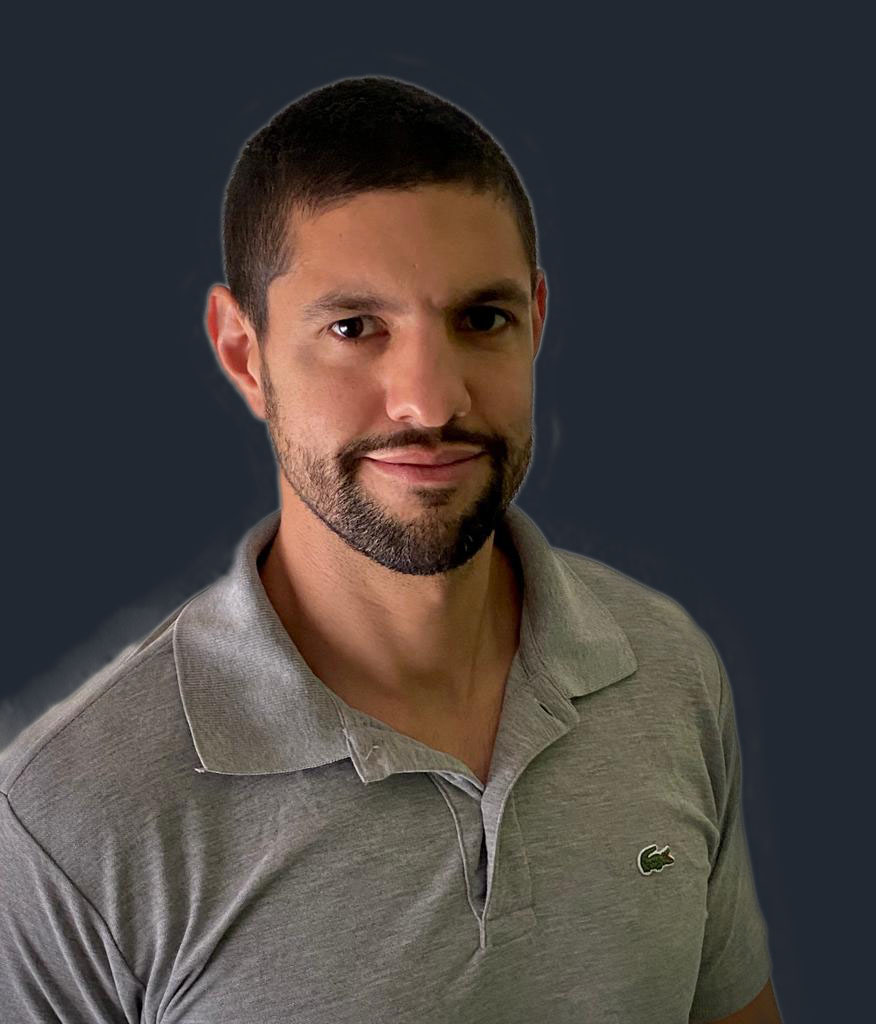
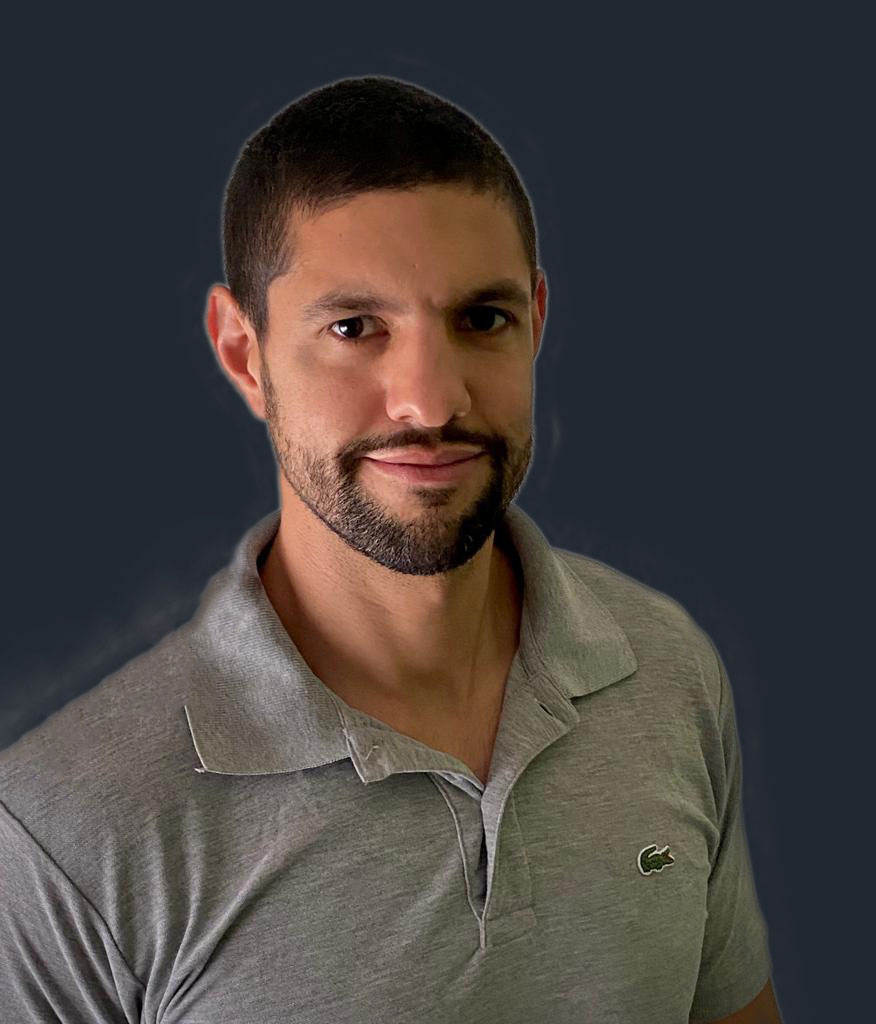
pruebas

Changed region(s): [[0.0, 0.5312, 0.3082, 0.8125]]

diff --git a/src/App.jsx b/src/App.jsx
@@ -81,7 +81,7 @@ function App() {
               </div>
             </div>
             <div className="col-12 col-md-6 d-flex justify-content-end order-first order-md-last">
-              <img className="imgPerfil" src="/img/perfil7.jpg" alt="" />
+              <img className="imgPerfil" src="/img/perfil9.jpg" alt="" />
             </div>
           </div>
         </section>

diff --git a/src/index.css b/src/index.css
@@ -24,8 +24,8 @@ body{
     border-radius: 50% 10%;
 	background-image: var(--img-url), linear-gradient(to bottom left, #f83600, #f9d423);
    
-    width: 350px;
-    height: 400px;
+    width: 336px;
+    height: 386px;
     flex-shrink: 0;
 	margin: 20px;
 	
